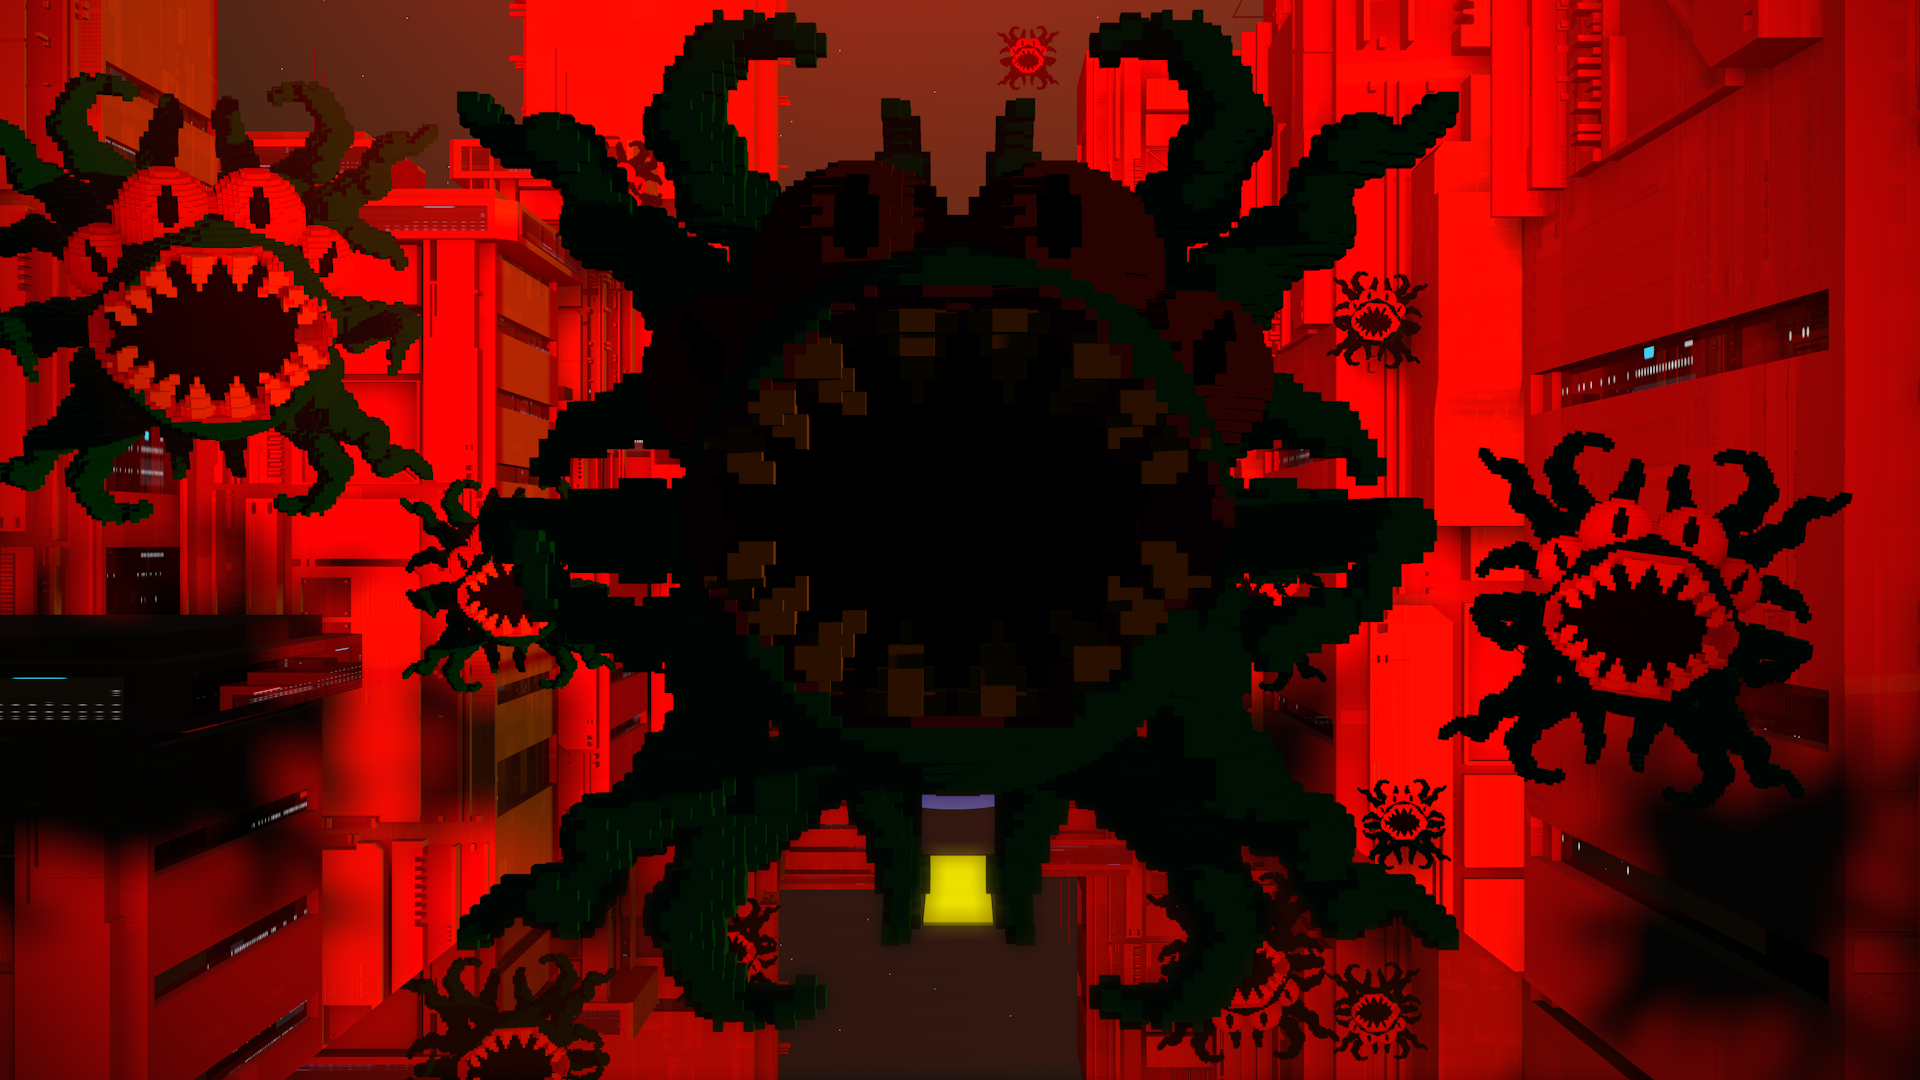
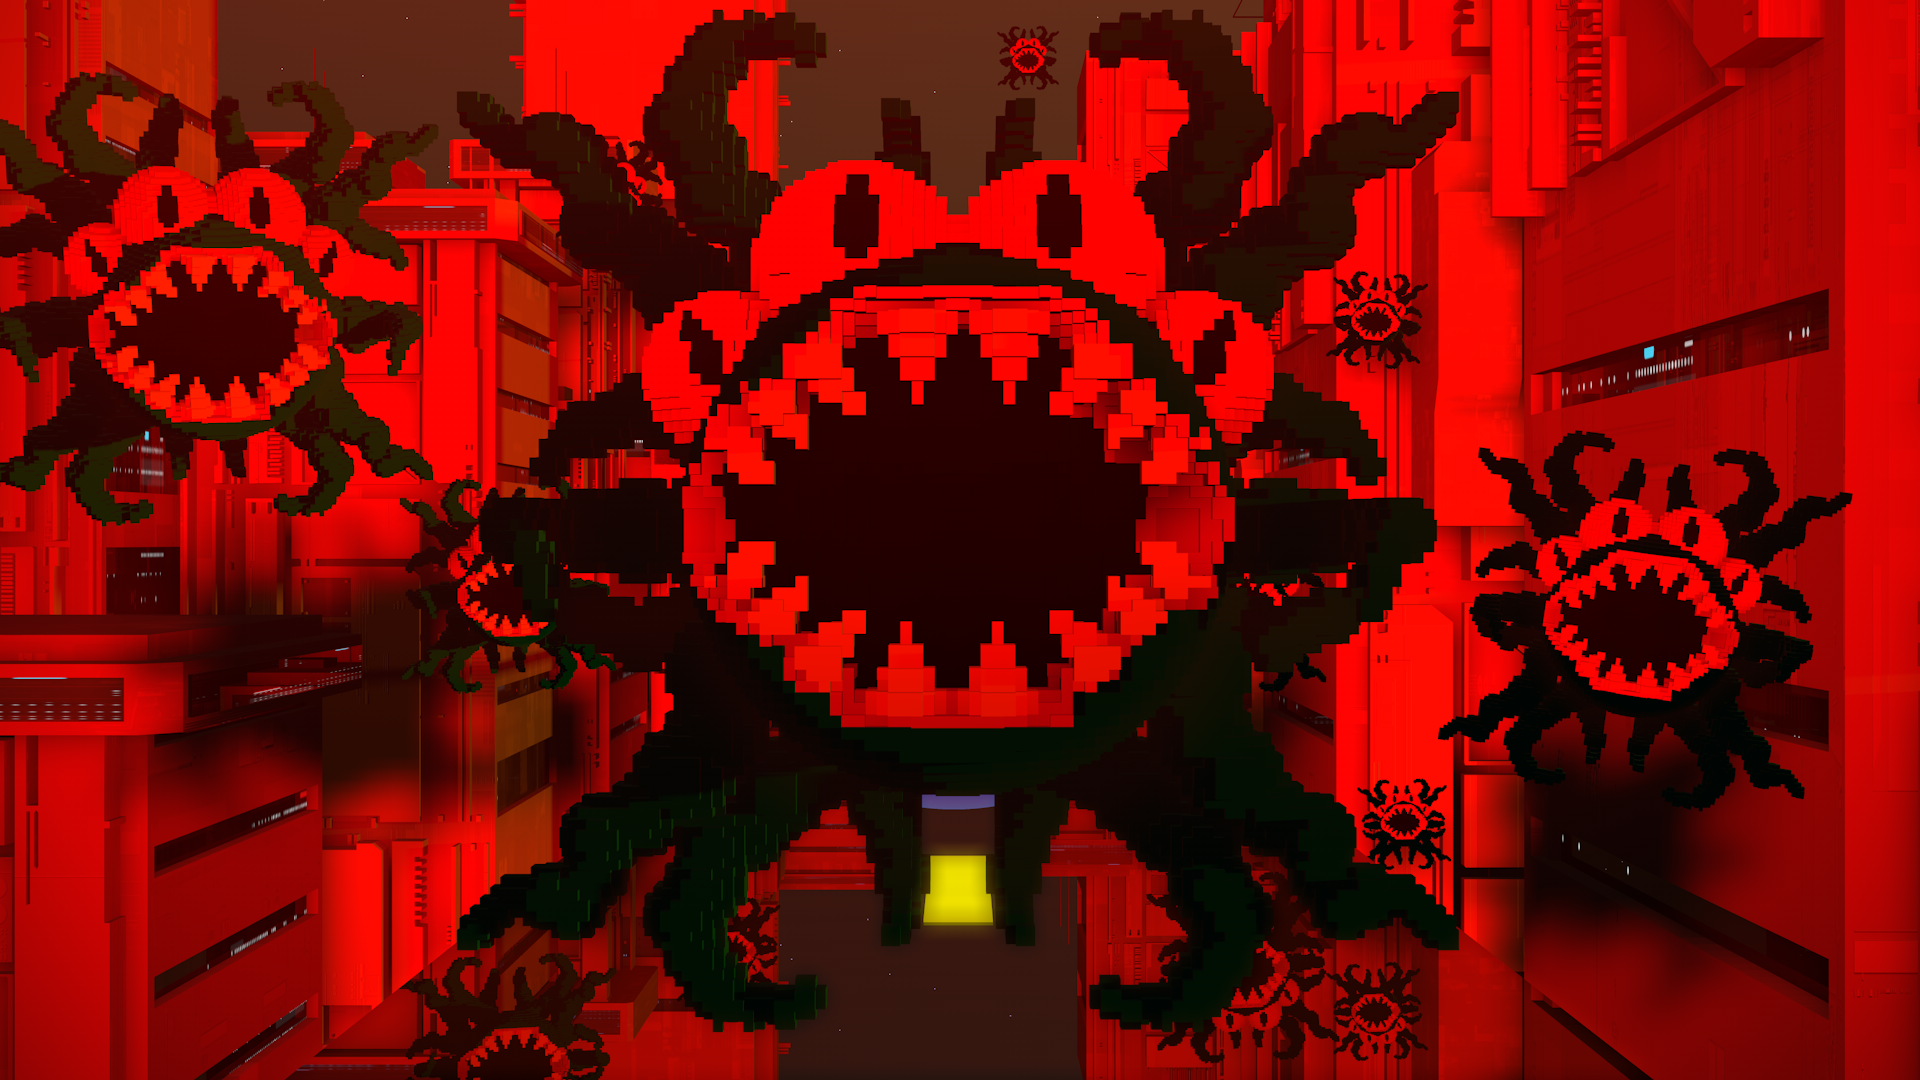
+ game over image

diff --git a/core/src/com/screens/GameOverScreen.java b/core/src/com/screens/GameOverScreen.java
@@ -11,13 +11,11 @@ import com.badlogic.gdx.Screen;
 import com.badlogic.gdx.graphics.Color;
 import com.badlogic.gdx.graphics.GL20;
 import com.badlogic.gdx.graphics.OrthographicCamera;
+import com.badlogic.gdx.graphics.Texture;
 import com.badlogic.gdx.graphics.g2d.TextureAtlas;
 import com.badlogic.gdx.scenes.scene2d.InputEvent;
 import com.badlogic.gdx.scenes.scene2d.Stage;
-import com.badlogic.gdx.scenes.scene2d.ui.Label;
-import com.badlogic.gdx.scenes.scene2d.ui.Skin;
-import com.badlogic.gdx.scenes.scene2d.ui.Table;
-import com.badlogic.gdx.scenes.scene2d.ui.TextButton;
+import com.badlogic.gdx.scenes.scene2d.ui.*;
 import com.badlogic.gdx.scenes.scene2d.utils.ClickListener;
 import com.badlogic.gdx.utils.Align;
 import com.badlogic.gdx.utils.viewport.ScreenViewport;
@@ -88,14 +86,20 @@ public class GameOverScreen implements Screen {
     public void show() {
         Gdx.input.setInputProcessor(stage);
 
+
         Table table = new Table();
-        table.setFillParent(true);
         table.center();
+
+        Image bcg = new Image(new Texture(Gdx.files.internal("game_over.png")));
+        Stack bcgstack = new Stack();
+        bcgstack.setFillParent(true);
+        bcgstack.add(bcg);
+        bcgstack.add(table);
 
         Label outcomeLabel = new Label("", new Label.LabelStyle(game.coolFont, Color.WHITE));
         outcomeLabel.setFontScale(2);
         if (outcome.equals(Outcome.WON)) outcomeLabel.setText("Well done, you saved York!");
-        else outcomeLabel.setText("Well... you let York down");
+        else outcomeLabel.setText("Well... you let York down...");
 
         TextButton exitButton = new TextButton("Return to Main Menu", skin);
 
@@ -115,7 +119,7 @@ public class GameOverScreen implements Screen {
             }
         });
 
-        stage.addActor(table);
+        stage.addActor(bcgstack);
     }
 
     /**

diff --git a/core/src/com/screens/MainMenuScreen.java b/core/src/com/screens/MainMenuScreen.java
@@ -160,7 +160,7 @@ public class MainMenuScreen implements Screen {
 
 		// Add table to stage
 		stage.addActor(bcgstack);
-		//test
+
 
 	}
 
